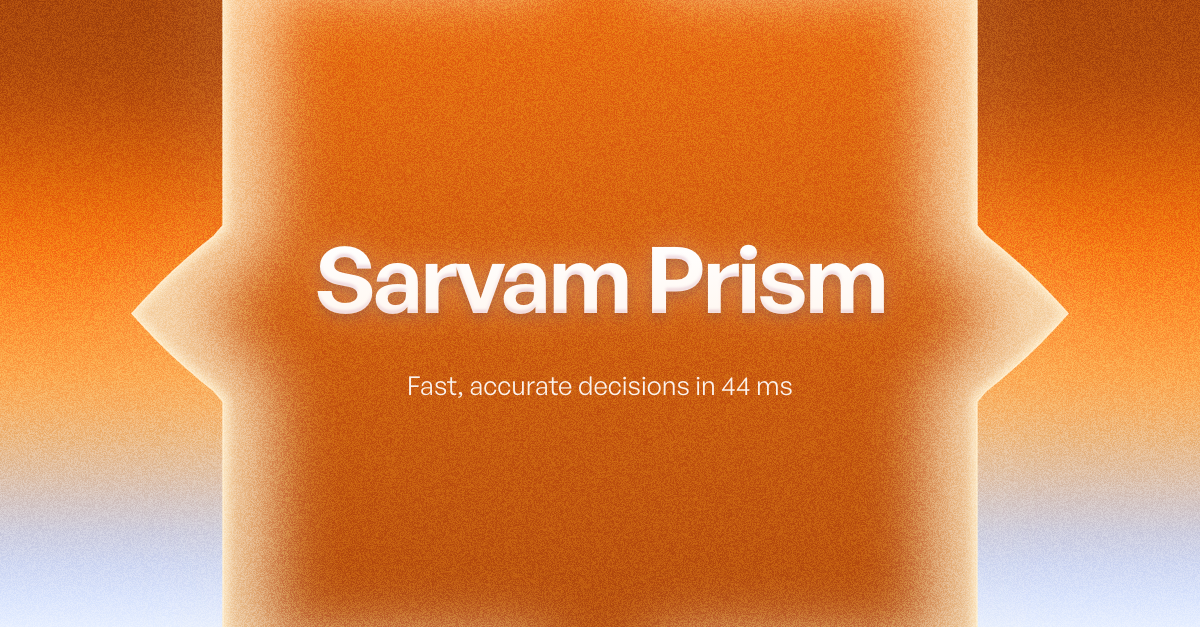
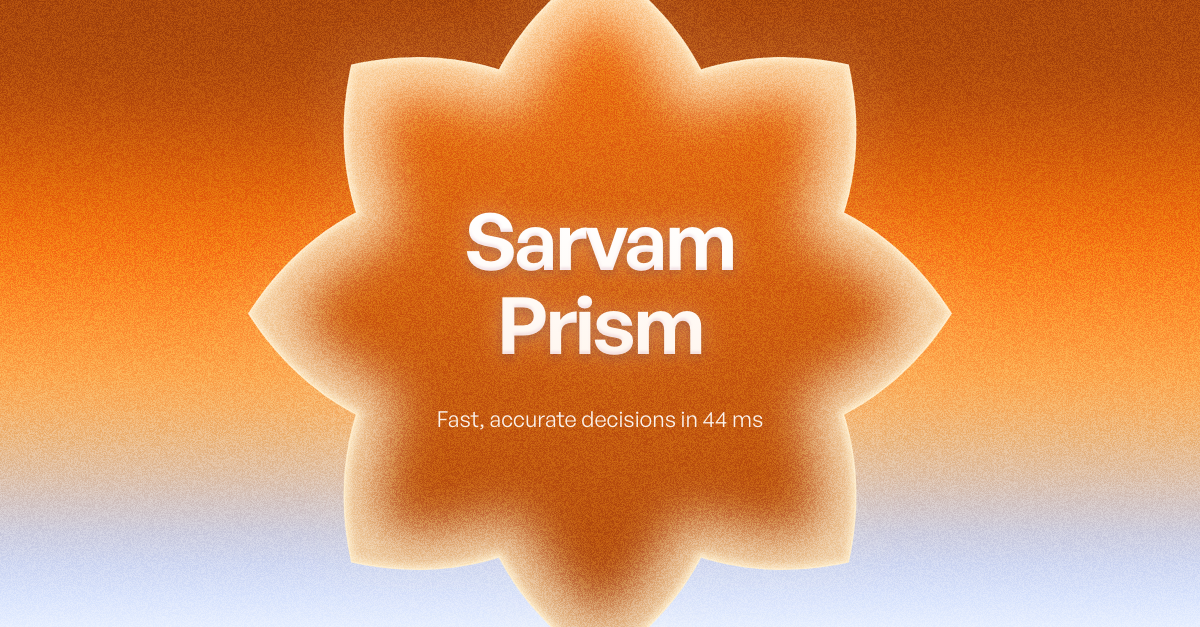
Prism: Eight-point star, whole on both formats (medallion-glow 'whole' option)

diff --git a/src/components/sarvam/composer.tsx b/src/components/sarvam/composer.tsx
@@ -31,6 +31,7 @@ export type BannerSpec = {
   logo?: "wordmark" | "logomark";  // logomark = the official lotus symbol, used alone (logo.md: never beside the wordmark)
   card?: "plan" | "research" | "review";   // product moment shown inside the device (split / stacked only); arch-window shows it through the arch
   icon?: EmblemIcon;               // emblem device: the one object that stands for the subject
+  whole?: boolean;                 // medallion-glow: keep the whole shape in frame on LinkedIn too (no vertical bleed)
   divider?: string;                // a /studio divider preset ABOVE the headline (always the first thing in the text block), drawn in the spectrum
   horizon?: "top" | "bottom";      // the hero's Sun gradient as a horizon from one edge, reaching about half way
   ornament?: Ornament;             // spectrum device: one SOLID shape in the spectrum (supersedes the line rosettes)
@@ -247,7 +248,8 @@ function renderDevice(spec: BannerSpec, F: Frame, id: string, beside = false, _f
     // Glow: one shape that fills the frame (bleeds on landscape). Carved: a base that leaves room for 4 even rings.
     // Padding rule: ≥ 1.5·M clear on both sides always; on portrait the shape sits fully inside (≥ M top and bottom); landscape may bleed vertically only.
     const sideMax = (F.W - F.M * 3) / g.width;
-    const s = glow ? (land ? Math.min(sideMax, Math.max((F.W * 0.78) / g.width, (F.H * 1.22) / g.height)) : Math.min(sideMax, (F.H - F.M * 2) / g.height))
+    // whole: the shape reads as the same object on Meta and LinkedIn (on LinkedIn only its top and bottom tips touch the edges)
+    const s = glow ? (land && !spec.whole ? Math.min(sideMax, Math.max((F.W * 0.78) / g.width, (F.H * 1.22) / g.height)) : Math.min(sideMax, (land ? F.H * 1.12 : F.H - F.M * 2) / g.height))
                    : (land ? Math.min((F.W * 0.5) / g.width, (F.H * 0.86) / g.height) : Math.min((F.W * 0.66) / g.width, (F.H * 0.62) / g.height));
     const w = g.width * s, h = g.height * s;
     const cx = F.W / 2, cy = F.H / 2;

diff --git a/process/prompt-log.md b/process/prompt-log.md
@@ -508,3 +508,9 @@ Entry format:
     - sovereign: "Sarvam's own models" / "Indus Cowork, with data residency in India"
 - QA now enforces it: the headline is ≤ 2 lines on LinkedIn and set at ≥ 72px (LinkedIn) / 96px (Meta). Otherwise it fails with "shorten the copy, don't shrink the type".
 - Result: all 13 presets × 2 formats + the full set PASS; the set is re-exported.
+
+## 2026-11-04 — Prism: Eight-point star, same object in both formats
+- Prompt (verbatim): "use a different type of pattern, the same in portrait and landscape, for this one." (screenshot: prism, Cusped window)
+- Shape: Cusped window → **Eight-point star**, the one glow medallion not used elsewhere in the set.
+- New `whole` option for medallion-glow: on LinkedIn the shape no longer bleeds off the frame (it was cropped to ~70% of its height), so it reads as the same object on both formats.
+- First try fitted the whole star inside the frame. The LinkedIn headline fell to 59px (QA fail, min 72). Scaled to 1.12 H instead: only the top and bottom tips touch the edges, and the headline is back above 72px. QA PASS, re-exported.
